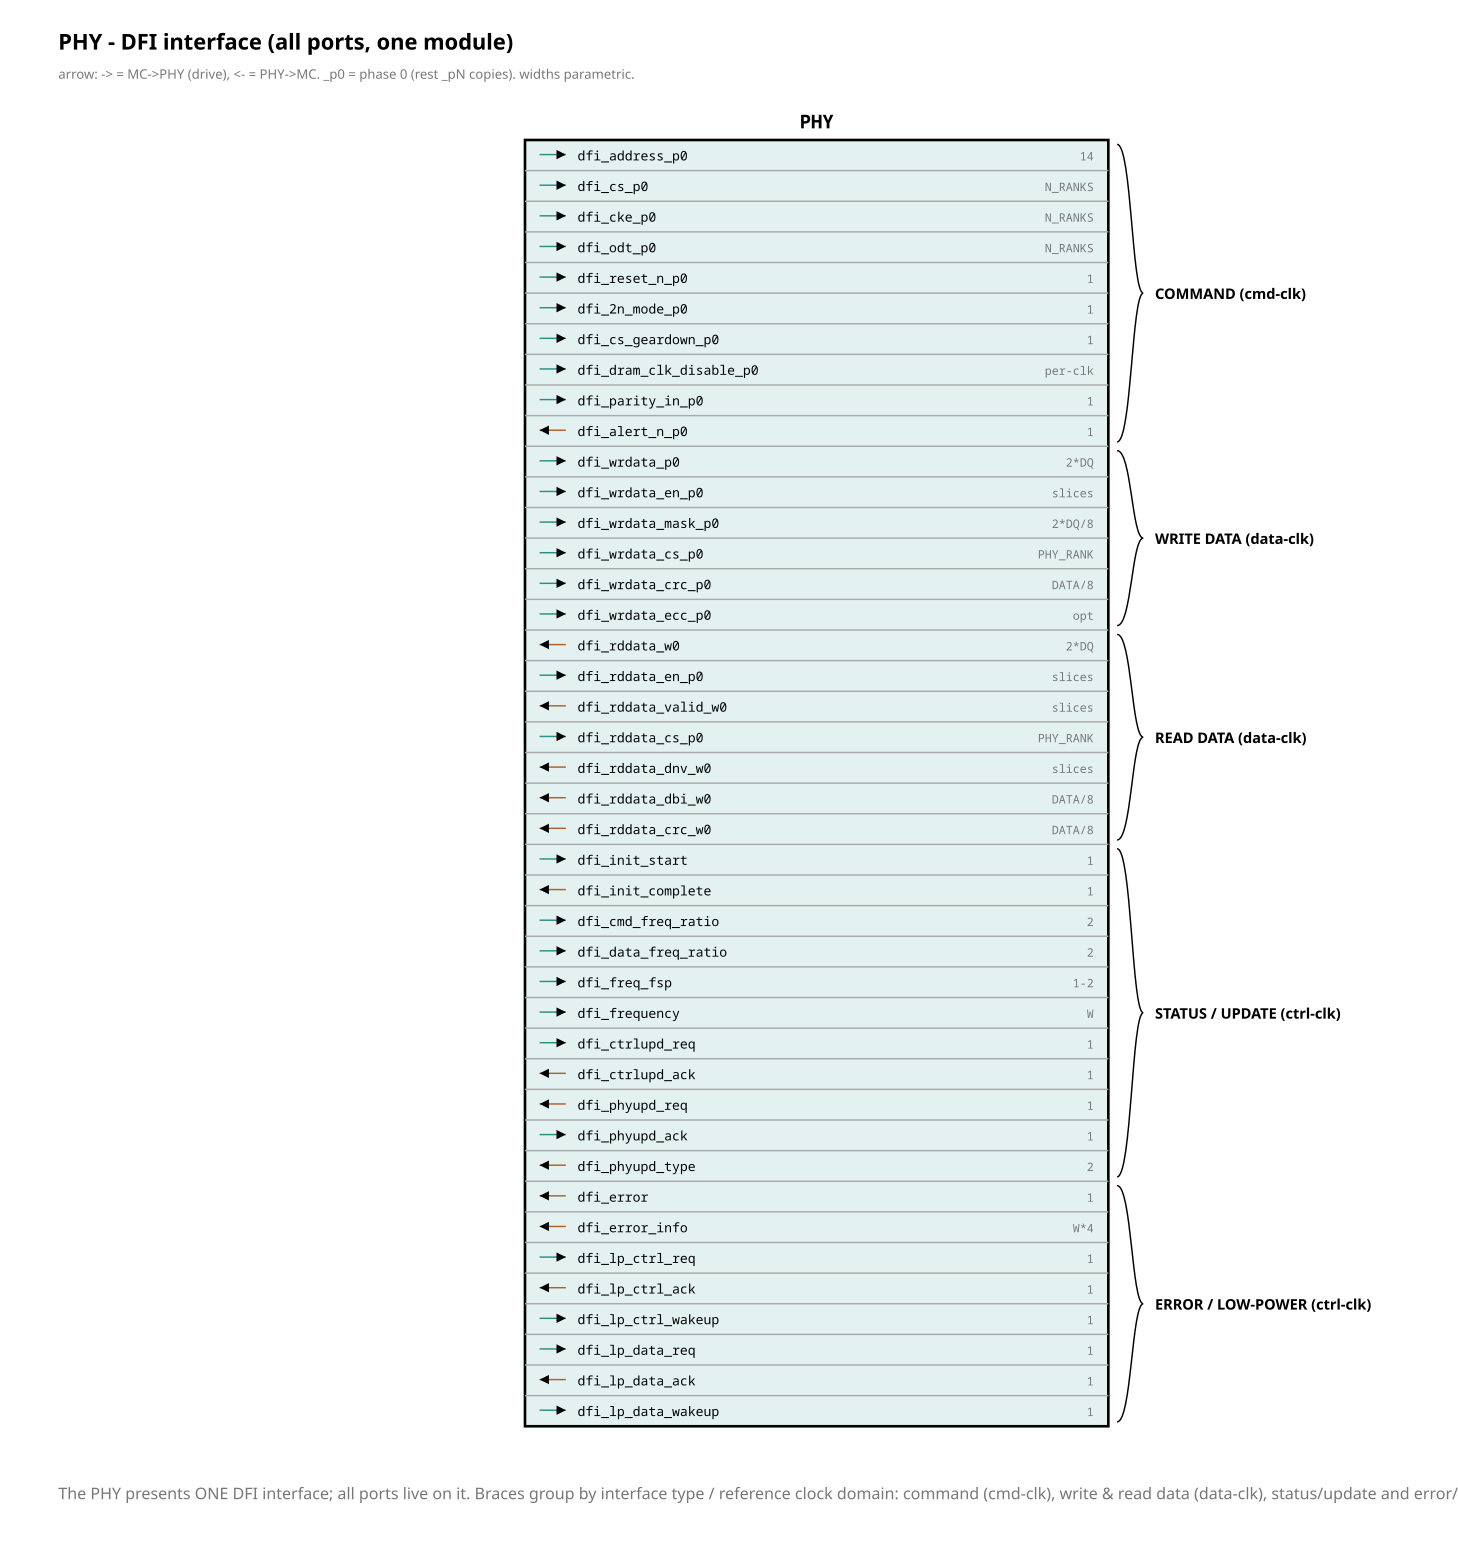
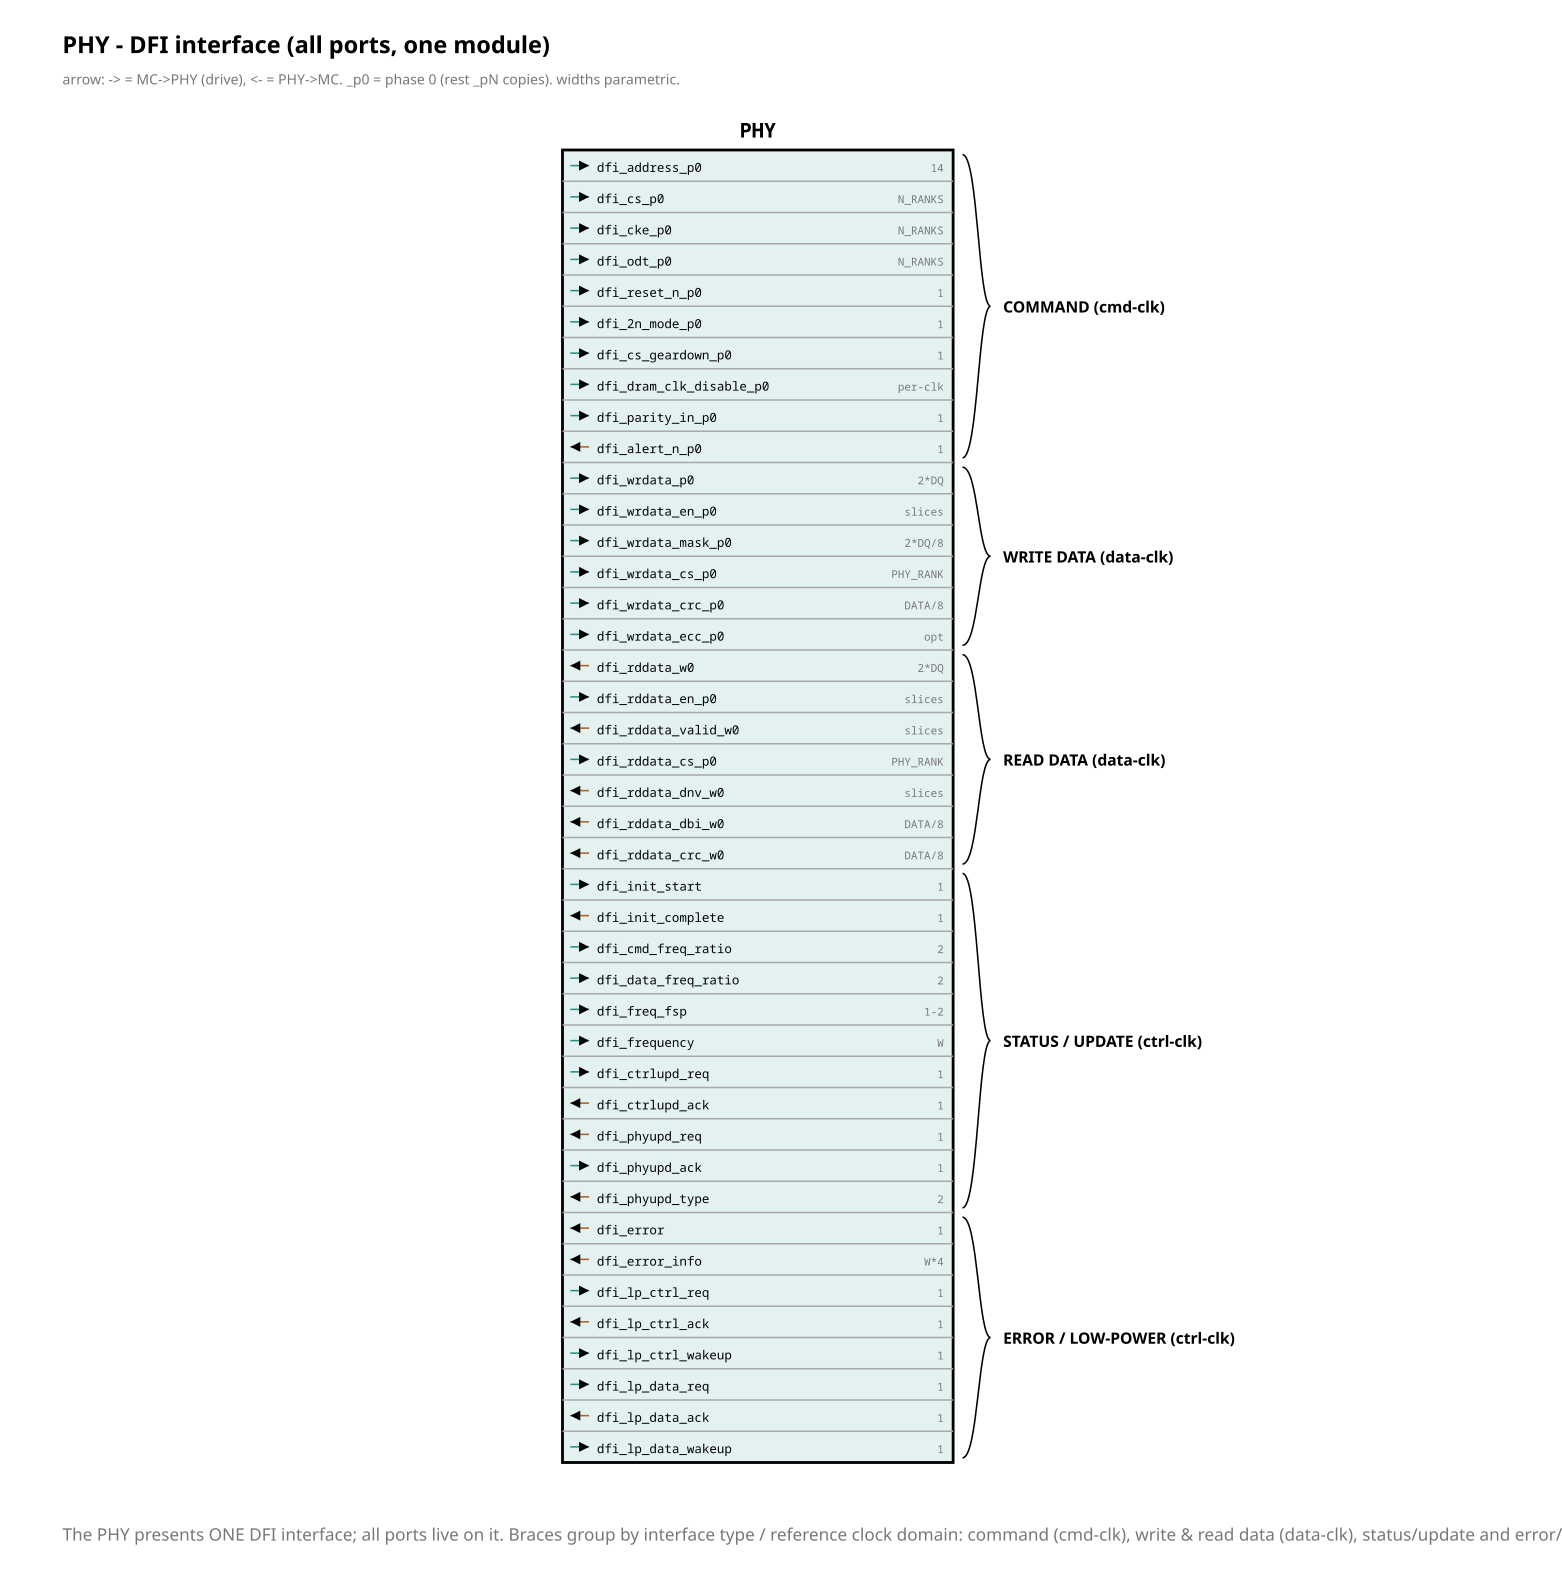
docs(dfi): slim the PHY port rectangle (fig_75)
Narrower rect (250w), smaller font, tighter arrows. Same ports + group braces.

Claude-Session: https://claude.ai/code/session_01KeZpnsTmiABbSM1StVyWVX

diff --git a/docs/sched_rebuild/fig/fig_75_phy_port_rect.py b/docs/sched_rebuild/fig/fig_75_phy_port_rect.py
@@ -5,8 +5,8 @@ from rtlfig import (Fig, MUTED, FILL_NEW, FILL_LOGIC, FILL_CELL, FILL_ACTIVE,
 # the right group ports by interface type. _p0 shown (rest _pN copies). Parametric.
 
 OUT = "#2a8f86"; IN = "#b0602a"
-RX, RW = 360, 400          # rect x, width
-ROWH = 21
+RX, RW = 360, 250          # rect x, width (slim)
+ROWH = 20
 Y0 = 96
 
 # (dir, name, width)  grouped; group boundaries by the GROUPS list
@@ -85,11 +85,11 @@ for i, (d, nm, wd) in enumerate(PORTS):
     y = Y0 + i * ROWH + 14
     col = OUT if d == "o" else IN
     if d == "o":
-        f.line(RX + 10, y - 4, RX + 28, y - 4, arrow=True, stroke=col)
+        f.line(RX + 5, y - 4, RX + 17, y - 4, arrow=True, stroke=col)
     else:
-        f.line(RX + 28, y - 4, RX + 10, y - 4, arrow=True, stroke=col)
-    f.text(RX + 36, y, nm, size=9, mono=True)
-    f.text(RX + RW - 10, y, wd, size=8, mono=True, anchor="end", fill=MUTED)
+        f.line(RX + 17, y - 4, RX + 5, y - 4, arrow=True, stroke=col)
+    f.text(RX + 22, y, nm, size=8, mono=True)
+    f.text(RX + RW - 6, y, wd, size=7, mono=True, anchor="end", fill=MUTED)
     if i:
         f.line(RX, Y0 + i * ROWH, RX + RW, Y0 + i * ROWH, stroke=FAINT)
 
